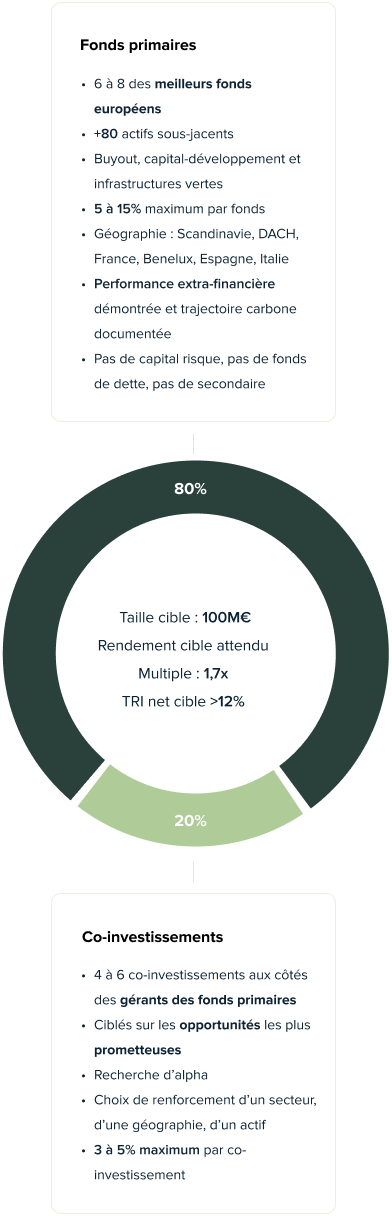
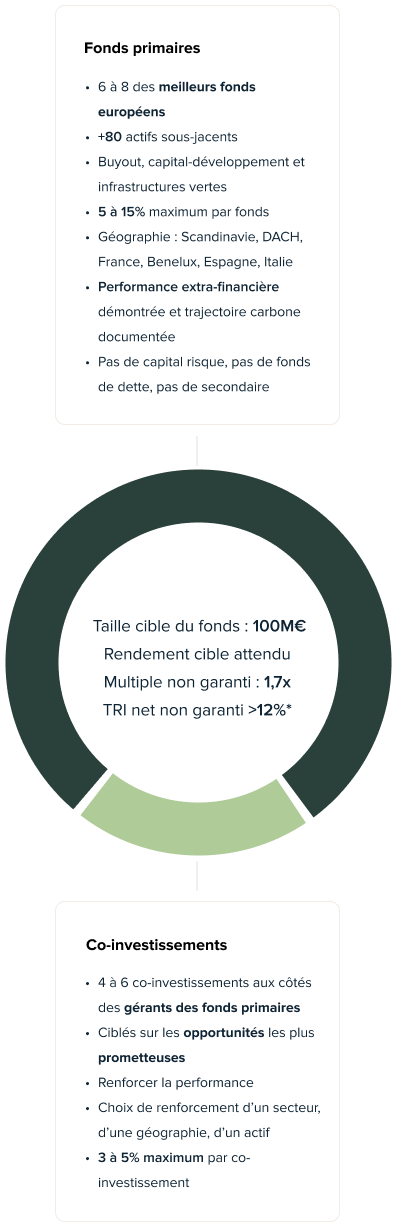
[AX-81] images & header

diff --git a/app.vue b/app.vue
@@ -14,10 +14,20 @@ onMounted(() => {
 
     // JS in backend/assets/js/front/pages/life_insurance/free_management.js
 
+  const fixedSubNav = document.querySelector('.sub-nav')
   const tabs = [...document.querySelectorAll('.tabs > div')]
   const slides = [...document.querySelectorAll('.slide')]
   const slideBgs = [...document.querySelectorAll('.slide-bg')]
   const sliderContainer = document.querySelector('.slide-container')
+
+  window.addEventListener("scroll", () => {
+    if (window.scrollY > 500) {
+      fixedSubNav.style.cssText = `opacity: 1; pointer-events: all; transform: translateY(0)`
+    } else {
+      fixedSubNav.style.cssText = `opacity: 0; pointer-events: none; transform: translateY(-100%)`
+    }
+  });
+  
 
 	function hideSlides() {
 		slides.forEach(slide => slide.style.cssText = `opacity: 0; pointer-events: none`)
@@ -60,17 +70,17 @@ onMounted(() => {
 <!-- Template in backend/templates/Front/Pages/LifeInsurance/free_management.html.twig -->
 
 <template>
+<div class="sticky top-0 left-0 h-[60px] z-[1100] bg-secondary-light w-full"></div>
 
-
-<section class="sticky top-0 left-0 bg-white px-5 py-4 w-full xl:max-h-[84px] z-[500]">
+<section class="sub-nav duration-300 opacity-0 pointer-none -translate-y-full fixed top-[60px] left-0 bg-white px-5 py-4 w-full xl:max-h-[84px] z-[6]">
   <div class="flex justify-between items-center md:items-start lg:items-center flex-col lg:flex-row max-md:gap-3 max-w-[1184px] mx-auto">
-    <div class="flex max-md:w-full flex-col">
+    <div class="hidden md:flex max-md:w-full flex-col">
       <p class="text-[#0E332B] text-m font-bold">AXClimat I</p>
       <p class="text-[#0E332B] text-s pb-[1.5px]">Le meilleur du private equity européen dédié à la décarbonation</p>
     </div>
 	  <div class="flex items-center w-full max-sm:flex-col md:ml-auto md:mt-4 lg:mt-0 lg:ml-0 gap-2 lg:gap-4 md:max-w-[650px]">
-		  <a href="#" class="tw-cta tw-cta--secondary !py-[11px] !font-semibold max-lg:ml-auto !border-2 !border-[#0E332B] whitespace-nowrap !bg-transparent hover:!bg-[#0E332B] !text-[#0E332B] hover:!text-white w-full max-md:!max-w-full md:!max-w-[330px]">Être rappelé par un conseiller</a>
-		  <a href="#" class="tw-cta tw-cta--secondary !py-[11px] !font-semibold max-lg:ml-auto !border-2 border-[#0E332B] hover:border-[#10392f] !bg-[#0E332B] hover:!bg-[#10392f] whitespace-nowrap text-white !w-full max-md:!max-w-full md:max-w-[330px]">Accéder à la documentation</a>
+		  <a href="https://share.hsforms.com/1SrQQ3Wv0TqmrD9p1zaZmwQ1fcvu" class="tw-cta tw-cta--secondary !p-0 !font-semibold max-lg:ml-auto !border border-[#0E332B] hover:border-[#10392f] !bg-[#0E332B] hover:!bg-[#10392f] whitespace-nowrap text-white !w-full h-[45px] !py-[10px] max-md:!max-w-full md:!max-w-[278px]">Accéder à la documentation</a>
+		  <a href="https://meetings.hubspot.com/contact-anaxago/axclimat" class="tw-cta tw-cta--tertiary !p-0 !font-semibold max-lg:ml-auto !border !border-[#0E332B] whitespace-nowrap w-full h-[45px] !py-[10px] max-md:!max-w-full md:!max-w-[278px]">Être rappelé par un conseiller</a>
 	  </div>
   </div>
 </section>
@@ -81,12 +91,12 @@ onMounted(() => {
     <div class="flex-1 flex flex-col lg:flex-row justify-between items-start gap-6 w-full">
       <div class="flex flex-col text-white lg:max-w-[650px]">
         <p class="text-xl font-semibold mb-3">AxClimat I</p>
-        <h1 class="text-h1 font-lora leading-[58px] mt-2 mb:mb-6 md:mb-8">Le meilleur du private equity <br class="hidden lg:block"> européen dédié à la <i>décarbonation</i></h1>
+        <h1 class="text-h1 font-lora leading-[58px] mt-2 mb:mb-6 md:mb-8">Accédez aux gérants européens de 1er plan du private equity à <i>impact</i></h1>
         <p class="text-m lg:max-w-[600px] text-justify">Un <b>fonds européen</b> visant les fonds de private equity dédié à la décarbonation et la transition énergétique</p>
-        <div class="flex max-md:flex-col gap-4 md:gap-6 items-stretch text-center mt-8 pt-6 w-full lg:w-fit" style="border-top: solid 1px rgba(255, 255, 255, 0.50)">
+        <div class="grid grid-cols-1 lg:grid-cols-3 gap-4 md:gap-6 items-stretch text-center mt-8 pt-6 w-full lg:w-fit" style="border-top: solid 1px rgba(255, 255, 255, 0.50)">
             <div class="flex flex-col items-center justify-center flex-1">
-              <p class="text-xl font-semibold">> 12%</p>
-              <p class="font-semibold bg-white/30 backdrop-blur-sm whitespace-nowrap w-full px-5 py-1 rounded-full">TRI cible net</p>
+              <p class="text-xl font-semibold">Article 9</p>
+              <p class="font-semibold bg-white/30 backdrop-blur-sm whitespace-nowrap w-full px-5 py-1 rounded-full">classification SFDR</p>
             </div>
             <div class="flex flex-col items-center justify-center flex-1">
               <p class="text-xl font-semibold">100 000€</p>
@@ -102,7 +112,7 @@ onMounted(() => {
       <article class="flex flex-col justify-center items-center text-center rounded-xl p-6 md:min-w-[400px] max-lg:mt-8 max-lg:mx-auto max-md:w-full lg:mt-8 lg:px-10 lg:py-8 bg-white">
         <h2 class="font-xl mb-5 text-[#0E332B] font-semibold">Vous voulez en savoir plus ?</h2>
         <p class="font-m mb-9 text-[#0E2333]">Le fonds est <span class="font-semibold">ouvert sur invitation</span> dans <br> un premier temps.</p>
-        <a href="#" class="tw-cta tw-cta--secondary !py-[11px] !font-semibold !bg-[#0E332B] hover:!bg-[#10392f] text-white w-full">Envoyer ma demande</a>
+        <a href="https://share.hsforms.com/1SrQQ3Wv0TqmrD9p1zaZmwQ1fcvu" class="tw-cta tw-cta--secondary !py-[11px] !px-0  !font-semibold !bg-[#0E332B] hover:!bg-[#10392f] text-white w-full">Envoyer ma demande</a>
       </article>
     </div>
   </div>
@@ -117,7 +127,7 @@ onMounted(() => {
           <svg class="w-[45px] min-w-[45px] h-[45px] min-h-[45px]" width="46" height="46" viewBox="0 0 46 46" fill="none" xmlns="http://www.w3.org/2000/svg">
             <path d="M18.1537 46C17.5936 45.9425 17.019 45.8995 16.4589 45.8133C9.21993 44.7648 4.04924 40.9299 1.34899 34.1505C-2.83065 23.7086 3.07255 12.1463 13.9454 9.30247C18.6708 8.06725 23.2382 8.65613 27.5471 11.0404C28.0499 11.3133 28.5382 11.6149 29.1414 11.9596C29.0696 11.3133 29.0122 10.7388 28.9547 10.1643C28.8398 9.23065 28.7249 8.29706 28.61 7.36346C28.5526 6.97566 28.6675 6.65967 28.9404 6.37241C30.7645 4.40468 32.5742 2.43694 34.3839 0.454844C34.6568 0.153221 34.9441 -0.0765879 35.375 0.0239533C35.7772 0.124495 35.8777 0.454844 35.9782 0.799557C36.4809 2.52312 36.9837 4.26105 37.4864 5.98461C37.5294 6.12824 37.5869 6.27187 37.6444 6.48732C37.9172 6.22878 38.1471 6.0277 38.3769 5.79789C39.253 4.93611 40.1148 4.05996 40.9909 3.19818C41.4218 2.76729 41.8671 2.73857 42.2118 3.08328C42.5421 3.41363 42.5134 3.88761 42.0969 4.30414C41.0197 5.39573 39.9281 6.47295 38.8365 7.55018C38.7072 7.66508 38.5349 7.7369 38.3912 7.82308C38.42 7.88053 38.463 7.93798 38.4918 7.99543C38.6354 8.05289 38.779 8.11034 38.9227 8.15343C40.6893 8.6705 42.4703 9.18756 44.2513 9.70463C44.6104 9.80517 44.9551 9.93444 45.0557 10.351C45.1562 10.7675 44.912 11.0404 44.6391 11.2989C42.6858 13.1087 40.718 14.9184 38.779 16.7282C38.42 17.0585 38.0322 17.1734 37.5582 17.1016C36.4953 16.9436 35.4468 16.8143 34.3839 16.6851C34.226 16.6707 34.068 16.6851 33.8525 16.6851C34.0105 16.958 34.1541 17.1734 34.2978 17.4032C38.7503 24.5129 37.9173 33.8058 32.2008 39.9532C28.7393 43.6732 24.4447 45.6697 19.3459 45.8995C19.1735 45.8995 19.0155 45.9569 18.8432 46H18.1681H18.1537ZM26.7572 19.8162C31.2815 24.8289 30.0032 31.9242 26.0965 35.4575C21.9168 39.235 15.6402 39.4505 11.4462 35.8453C6.57713 31.6657 6.59149 25.346 9.26301 21.2525C10.7568 18.9544 12.825 17.3601 15.4966 16.6276C19.1448 15.6366 22.4626 16.3834 25.4214 18.581C26.8434 17.1734 28.2078 15.7946 29.5867 14.4157C24.5453 9.58973 14.6061 8.09597 7.33837 14.5162C-0.0873157 21.1089 -0.302761 32.5993 6.80694 39.5797C13.5576 46.2011 24.9043 45.842 31.2097 38.7036C37.7018 31.3354 36.3948 21.2094 30.8219 15.5073C29.4862 16.9436 28.136 18.3655 26.7715 19.8306L26.7572 19.8162ZM25.3783 20.7929C25.2922 20.9365 25.206 21.0945 25.0911 21.2238C23.3962 22.9186 21.7158 24.6135 20.0209 26.3083C19.5182 26.811 19.0155 27.3424 18.4697 27.802C18.2686 27.96 17.8808 28.0749 17.6654 27.9888C17.4356 27.9026 17.177 27.5722 17.1627 27.3281C17.1483 27.0839 17.3494 26.7535 17.5361 26.5668C19.5757 24.4986 21.6439 22.459 23.6979 20.4051C23.9133 20.204 24.1 19.9742 24.3011 19.7588C20.7103 16.8861 14.8646 16.9723 11.3169 21.1807C7.88416 25.2598 8.47305 31.3497 12.6383 34.725C16.7605 38.0572 22.7499 37.3678 26.0247 33.1882C29.4431 28.8362 28.0642 23.2633 25.3783 20.8073V20.7929ZM42.7289 10.8968C40.9335 10.3797 39.253 9.89135 37.5869 9.38865C37.1991 9.27374 36.9693 9.35992 36.7108 9.63282C35.3606 11.0117 33.9961 12.3618 32.6173 13.7263C32.3875 13.9561 32.1146 14.1428 31.8991 14.3152C32.1577 14.861 32.5455 14.9184 32.9189 14.9615C34.2978 15.1339 35.6766 15.2775 37.0411 15.4929C37.5438 15.5791 37.8742 15.4355 38.2332 15.1051C39.2674 14.1141 40.3302 13.1518 41.3787 12.1751C41.8096 11.7729 42.2262 11.3707 42.7289 10.9111V10.8968ZM30.8794 13.1805C30.9799 13.123 31.0374 13.0943 31.0804 13.0512C32.7609 11.3851 34.4558 9.70463 36.1219 8.02416C36.2368 7.90925 36.2942 7.62199 36.2368 7.43528C35.9352 6.32932 35.6048 5.23773 35.2888 4.13178C35.1165 3.55726 34.9585 2.98274 34.7717 2.37949C34.6712 2.4513 34.6138 2.48003 34.5707 2.52312C33.1487 4.07433 31.7268 5.61117 30.3192 7.17674C30.2187 7.29164 30.1756 7.52145 30.1899 7.69381C30.2761 8.58432 30.391 9.46046 30.4916 10.351C30.6065 11.2702 30.7357 12.2038 30.865 13.1661L30.8794 13.1805Z" fill="#2A403A"/>
           </svg>
-          <h3 class="text-xl font-bold mt-4 mb-6">TRI cible > 12% (net de tous frais)</h3>
+          <h3 class="text-xl font-bold mt-4 mb-6">TRI cible (non garanti) > 12% net de tous frais</h3>
           <p>Sélection des meilleurs gérants européens pour accéder aux meilleures performances financières et extra-financières</p>
           <br>
           <p>Fonds de private equity et infrastructure :</p>
@@ -137,21 +147,20 @@ onMounted(() => {
           <h3 class="text-xl font-bold mt-4 mb-6">Objectif net zéro carbone</h3>
 
           <div class="flex max-md:flex-col gap-4 md:gap-6 items-stretch font-semibold font-m mb-6">
-            <div class="w-fit">
+            <div class="w-fit flex-1">
               <p>Trois secteurs clés :</p>
-              <ul class="pl-6">
-                <li class="list-disc">Décarbonation de l'industrie</li>
-                <li class="list-disc">Énergies renouvelables</li>
-                <li class="list-disc">Economie circulaire</li>
+              <ul class="pl-6 list-disc">
+                <li class="">Décarbonation de l'industrie</li>
+                <li class="">Énergies renouvelables</li>
+                <li class="">Economie circulaire</li>
               </ul>
             </div>
             <div class="block min-h-[1px] max-md:bg-[#DFE3EA]" style="border-right: 1px dashed #DFE3EA;"></div>
-            <div class="w-fit">
+            <div class="w-fit flex-1">
               <p>Trois indicateurs précis : </p>
-              <ul class="pl-6">
-                <li class="list-disc">Tonnes de CO2 évitées, </li>
-                <li class="list-disc">Réduction des TCO2 émises,</li>
-                <li class="list-disc">MW installés </li>
+              <ul class="pl-6 list-disc">
+                <li class="">Tonnes de CO2 évitées, </li>
+                <li class="">MW installés en capacité de production d'énergie renouvelable</li>
               </ul>
             </div>
           </div>
@@ -159,13 +168,13 @@ onMounted(() => {
           <p>
             La nouvelle révolution industrielle soutenue par une réglementation européenne 
             croissante pour atteindre le Net Zéro Carbone :
+            <br>
             <b>≈ 1 000 milliards€/ an d’ici 2030</b>
           </p>
         </article>
       </div>
-
-      <a href="#" class="tw-cta tw-cta--secondary !py-[11px] !font-semibold !bg-[#0E332B] hover:!bg-[#10392f] text-white w-full max-w-[300px] mt-8">Accéder à la documentation</a>
-  </div>
+      <p class="text-xs text-black/50 mt-6 lg:mt-12 lg:text-[15px]">*L’objectif de rendement communiqué à titre indicatif n’est ni contractuel ni garanti. Il existe un risque d’illiquidité et de perte en capital.</p>  
+    </div>
 </section>
 
 <section class="lg:flex relative bg-[#1E3C35] text-white">
@@ -173,7 +182,7 @@ onMounted(() => {
   <div class="max-w-[1184px] px-5 mx-auto flex items-stretch justify-center w-full">
     <div class="flex flex-col py-10 lg:py-16 px lg:max-w-[60%] lg:ml-auto">
       <h2 class="text-h2 font-lora text-center mb-6">Les <i>éléments clés</i> d’AxClimat I</h2>
-      <div class="bg-white text-black rounded-lg text-l p-6 lg:p-10" style="border: 1px solid #E4EBF5">
+      <div class="bg-white text-black rounded-lg text-l px-14 py-10" style="border: 1px solid #E4EBF5">
         <ul class="max-lg:list-disc mb-4">
           <li class="lg:flex items-center gap-2">
             <svg class="max-lg:hidden" width="5" height="5" viewBox="0 0 5 5" fill="none" xmlns="http://www.w3.org/2000/svg">
@@ -185,19 +194,13 @@ onMounted(() => {
             <svg class="max-lg:hidden" width="5" height="5" viewBox="0 0 5 5" fill="none" xmlns="http://www.w3.org/2000/svg">
               <circle cx="2.5" cy="2.5" r="2.5" fill="#0E2333" fill-opacity="0.15"/>
             </svg>
-            Objectif de TRI cible net de frais* (non garanti) : <b>12%/an</b>
+            Durée de vie du fonds* : <b>10 ans, prorogeable 2x 1 an</b>
           </li>
           <li class="lg:flex items-center gap-2">
             <svg class="max-lg:hidden" width="5" height="5" viewBox="0 0 5 5" fill="none" xmlns="http://www.w3.org/2000/svg">
               <circle cx="2.5" cy="2.5" r="2.5" fill="#0E2333" fill-opacity="0.15"/>
             </svg>
-            Durée de vie du fonds* : <b>0 ans, prorogeable 2x 1 an</b>
-          </li>
-          <li class="lg:flex items-center gap-2">
-            <svg class="max-lg:hidden" width="5" height="5" viewBox="0 0 5 5" fill="none" xmlns="http://www.w3.org/2000/svg">
-              <circle cx="2.5" cy="2.5" r="2.5" fill="#0E2333" fill-opacity="0.15"/>
-            </svg>
-            Distribution des intérêts : <b>à partir de la 6ème année</b>
+            Distribution de la plus-value : <b>à partir de la 6ème année</b>
           </li>
           <li class="lg:flex items-center gap-2">
             <svg class="max-lg:hidden" width="5" height="5" viewBox="0 0 5 5" fill="none" xmlns="http://www.w3.org/2000/svg">
@@ -251,9 +254,9 @@ onMounted(() => {
               Souscription minimum :
             </dt>
             <dd class="space-y-1">
-              <div>Parts A : <span class="font-bold">100 000€</span></div>
+              <div>Parts A : <span class="font-bold">1 000 000€</span></div>
               <div>Parts B : <span class="font-bold">100 000€</span></div>
-              <div>Parts I : <span class="font-bold">1 000 000€</span></div>
+              <div>Parts I : <span class="font-bold">2 000 000€</span></div>
             </dd>
           </div>
           <div class="pt-4 grid grid-cols-1 sm:grid-cols-2 gap-2" style="border-top: 1px dotted #DFE3EA">
@@ -264,9 +267,9 @@ onMounted(() => {
               Frais d’entrée :
             </dt>
             <dd class="space-y-1">
-              <div>Parts A : <span class="font-bold">3%</span></div>
-              <div>Parts B : <span class="font-bold">3%</span></div>
-              <div>Parts I : <span class="font-bold">0%</span></div>
+              <div>Parts A : <span class="font-bold">1.5%</span></div>
+              <div>Parts B : <span class="font-bold">2%</span></div>
+              <div>Parts I : <span class="font-bold">1%</span></div>
             </dd>
           </div>
           <div class="pt-4 grid grid-cols-1 sm:grid-cols-2 gap-2" style="border-top: 1px dotted #DFE3EA">
@@ -277,9 +280,10 @@ onMounted(() => {
               Frais de gestion récurrents :
             </dt>
             <dd class="space-y-1">
-              <div>Parts A : <span class="font-bold">1,3%/an</span></div>
-              <div>Parts B : <span class="font-bold">1,7%/an</span></div>
-              <div>Parts I : <span class="font-bold">1%/an</span></div>
+              <div>Parts A : <span class="font-bold">1,3%/an***</span></div>
+              <div>Parts B : <span class="font-bold">1,7%/an***</span></div>
+              <div>Parts I : <span class="font-bold">1%/an***</span></div>
+              <div>Parts D <i>(assurance vie)</i> : <span class="font-bold">1,70%/an***</span></div>
             </dd>
           </div>
         </dl>
@@ -288,6 +292,8 @@ onMounted(() => {
         *Les taux et horizons indiqués ne présentent pas une garantie de performance. L’attention des souscripteurs est attirée sur le fait que votre argent est bloqué pendant une durée de 10 années soit jusqu’en 2034 et au plus tard jusqu’en 2036, sauf en cas de déblocage anticipé par le Règlement.
         <br>
         **Article 9 du règlement européen SFDR (Sustainable Finance Disclosure Regulation) ; Fonds qui promeuvent des caractéristiques environnementales ou sociales.
+        <br>
+        ***Frais de gestion de N à N+5, puis dégressivité de 0,1 point/an à partir de la 6ème année, sauf pour l’assurance vie.
       </p>
     </div>
   </div>
@@ -335,7 +341,7 @@ onMounted(() => {
             </ul>
             <p>Le solaire et l'éolien se révèlent être les technologies les plus pertinentes et dont le potentiel est le plus important pour <span class="font-semibold">réduire les émissions de CO2</span> (dernier rapport du Giec).</p>
           </div>
-          <a href="#" class="tw-cta tw-cta--secondary !block max-md:mx-auto !py-[11px] !font-semibold !bg-[#0E332B] hover:!bg-[#10392f] text-white w-full max-w-[300px] mt-6 lg:mt-10">Accéder à la documentation</a>
+          <a href="https://share.hsforms.com/1SrQQ3Wv0TqmrD9p1zaZmwQ1fcvu" class="tw-cta tw-cta--secondary !block max-md:mx-auto !py-[11px] !px-0  !font-semibold !bg-[#0E332B] hover:!bg-[#10392f] text-white w-full max-w-[278px] mt-6 lg:mt-10">Accéder à la documentation</a>
         </div>
         <div>
           <img src="@/assets/img/axclimat/axclimat_stats-1.png" alt="Energy Statistics" class="w-full object-contain" draggable="false" decoding="async">
@@ -357,9 +363,8 @@ onMounted(() => {
               <li><b>Réduire les émissions de gaz à effet de serre</b> (entreprises en transition)</li>
               <li><b>Éviter les émissions de gaz à effet de serre</b> (entreprises alignées)</li>
             </ul>
-            <p>Le solaire et l'éolien se révèlent être les technologies les plus pertinentes et dont le potentiel est le plus important pour <span class="font-semibold">réduire les émissions de CO2</span> (dernier rapport du Giec).</p>
           </div>
-          <a href="#" class="tw-cta tw-cta--secondary !block max-md:mx-auto !py-[11px] !font-semibold !bg-[#0E332B] hover:!bg-[#10392f] text-white w-full max-w-[300px] mt-6 lg:mt-10">Accéder à la documentation</a>
+          <a href="https://share.hsforms.com/1SrQQ3Wv0TqmrD9p1zaZmwQ1fcvu" class="tw-cta tw-cta--secondary !block max-md:mx-auto !py-[11px] !px-0  !font-semibold !bg-[#0E332B] hover:!bg-[#10392f] text-white w-full max-w-[278px] mt-6 lg:mt-10">Accéder à la documentation</a>
         </div>
         <div>
           <img src="@/assets/img/axclimat/axclimat_stats-2.png" alt="Sectors Statistics" class="w-full object-contain" draggable="false" decoding="async">
@@ -384,7 +389,7 @@ onMounted(() => {
               <li><b>31 % des aliments</b> sont gaspillés le long de la chaîne de valeur</li> 
             </ul>
           </div>
-          <a href="#" class="tw-cta tw-cta--secondary !block max-md:mx-auto !py-[11px] !font-semibold !bg-[#0E332B] hover:!bg-[#10392f] text-white w-full max-w-[300px] mt-6 lg:mt-10">Accéder à la documentation</a>
+          <a href="https://share.hsforms.com/1SrQQ3Wv0TqmrD9p1zaZmwQ1fcvu" class="tw-cta tw-cta--secondary !block max-md:mx-auto !py-[11px] !px-0  !font-semibold !bg-[#0E332B] hover:!bg-[#10392f] text-white w-full max-w-[278px] mt-6 lg:mt-10">Accéder à la documentation</a>
         </div>
         <div>
           <img src="@/assets/img/axclimat/axclimat_stats-3.png" alt="Circular Statistics" class="w-full object-contain" draggable="false" decoding="async">
@@ -399,7 +404,7 @@ onMounted(() => {
   <div class="max-w-[1184px] px-5 mx-auto flex items-stretch justify-center w-full">
     <div class="flex flex-col py-10 lg:py-16 px lg:max-w-[60%] lg:ml-auto">
       <h2 class="text-h2 font-lora text-left mb-6">
-        La <i>surperformance</i> du private <br class="hidden md:block"> equity européen 
+        La <i>performance</i> du private <br class="hidden md:block"> equity européen 
       </h2>
 
       <p class="mb-8">Les fonds de fonds de private equity représentent le meilleur couple risque/rendement du marché européen.</p>
@@ -441,7 +446,7 @@ onMounted(() => {
         </ul>
       </div>
 
-      <a href="#" class="tw-cta tw-cta--secondary max-md:mx-auto !py-[11px] !font-semibold !bg-[#0E332B] hover:!bg-[#10392f] text-white w-full max-w-[300px]">Accéder à la documentation</a>
+      <a href="https://share.hsforms.com/1SrQQ3Wv0TqmrD9p1zaZmwQ1fcvu" class="tw-cta tw-cta--secondary max-md:mx-auto !py-[11px] !px-0  !font-semibold !bg-[#0E332B] hover:!bg-[#10392f] text-white w-full max-w-[278px]">Accéder à la documentation</a>
       
     </div>
   </div>
@@ -452,6 +457,7 @@ onMounted(() => {
     <h2 class="text-h2 font-lora mb-6">La composition du portefeuille</h2>
     <img src="@/assets/img/axclimat/axclimat_wallet-graph.png" alt="wallet statistics" class="hidden sm:block w-full object-contain" draggable="false" decoding="async">
     <img src="@/assets/img/axclimat/axclimat_wallet-graph-mobile.png" alt="wallet statistics" class="sm:hidden w-full max-h-[1000px] object-contain" draggable="false" decoding="async">
+    <p class="text-xs text-black/50 mt-6 lg:mt-12 lg:text-[15px]">*L’objectif de rendement communiqué à titre indicatif n’est ni contractuel ni garanti. Il existe un risque d’illiquidité et de perte en capital.</p>  
   </div>
 </section>
 
@@ -468,7 +474,7 @@ onMounted(() => {
             <li>Buyout majoritaire très opérationnel</li>
             <li>Spin-off d’une société de gestion réputée</li>
             <li>80% des membres seniors de l’équipe travaillent ensemble depuis +8 ans</li>
-            <li>1er deal en portefeuille</li>
+            <li>2 deals en portefeuille</li>
             <li>Fonds sursouscrit - closing final fin 2023</li>
           </ul>
         </div>
@@ -522,12 +528,12 @@ onMounted(() => {
   <article class="bg-white flex flex-col justify-center items-center text-center rounded-xl p-6 max-w-[700px] mx-auto lg:px-10 lg:py-8">
       <h2 class="font-xl mb-5 text-[#0E332B] font-semibold">Vous voulez en savoir plus ?</h2>
       <p class="font-m mb-5 text-[#0E2333]">Le fonds est <span class="font-semibold">ouvert sur invitation</span> dans un premier temps.</p>
-      <a href="#" class="tw-cta tw-cta--secondary !py-[11px] !font-semibold !bg-[#00B67A] hover:!bg-[#0cae78] text-white w-full">Envoyer ma demande</a>
+      <a href="https://share.hsforms.com/1SrQQ3Wv0TqmrD9p1zaZmwQ1fcvu" class="tw-cta tw-cta--secondary !py-[11px] !px-0  !font-semibold !bg-[#00B67A] hover:!bg-[#0cae78] text-white w-full max-w-[325px] mx-auto">Envoyer ma demande</a>
   </article>
 </section>
 
 <!-- TODO Remove div -->
-<div class="pb-[2000px]"></div>
+<div class="pb-[1000px]"></div>
 
   <NuxtPage />
 </template>
